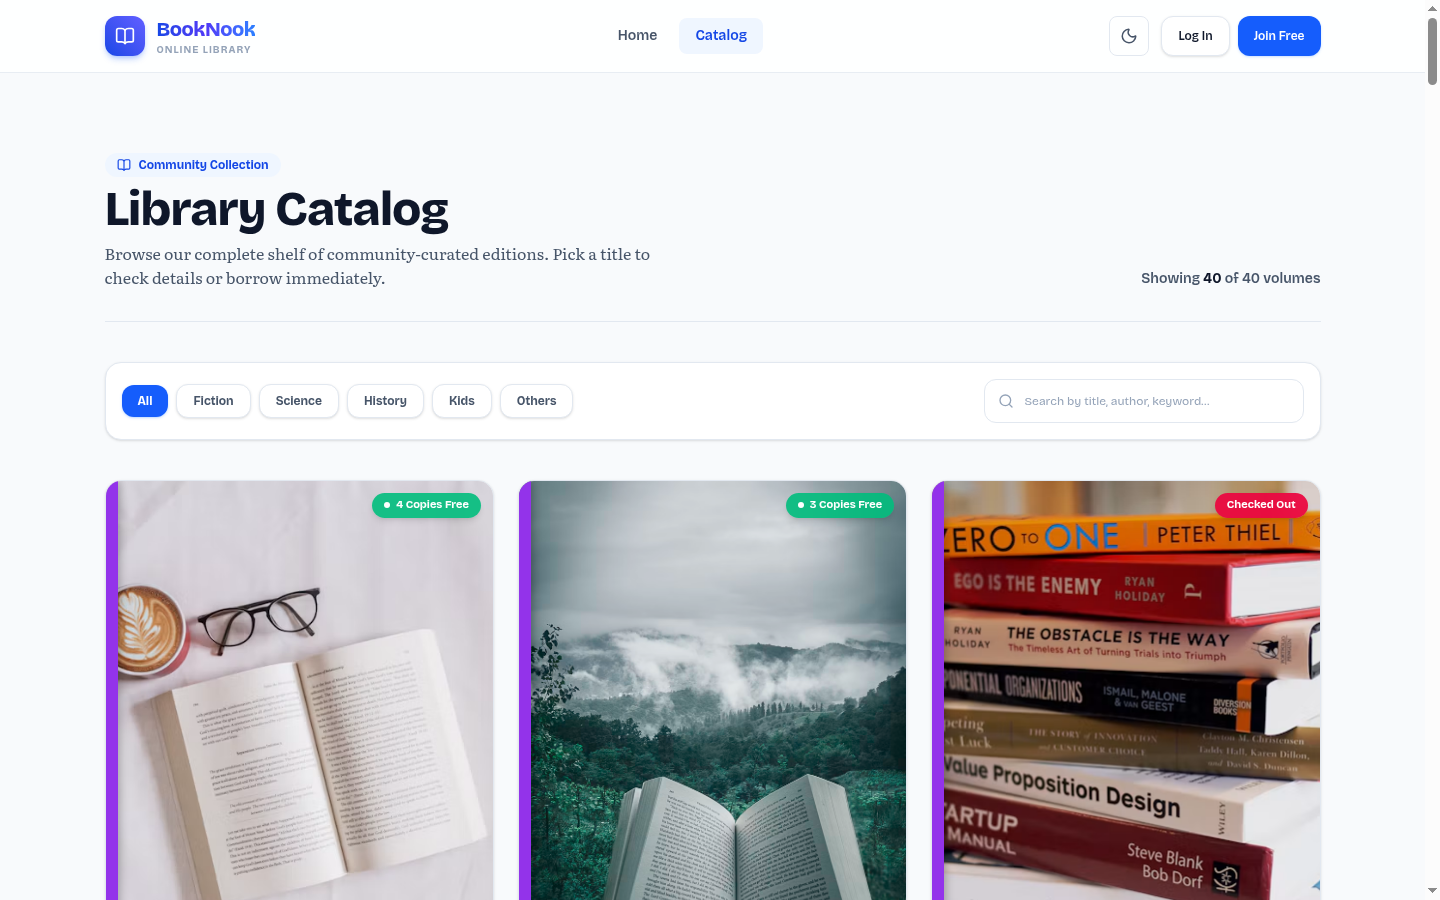
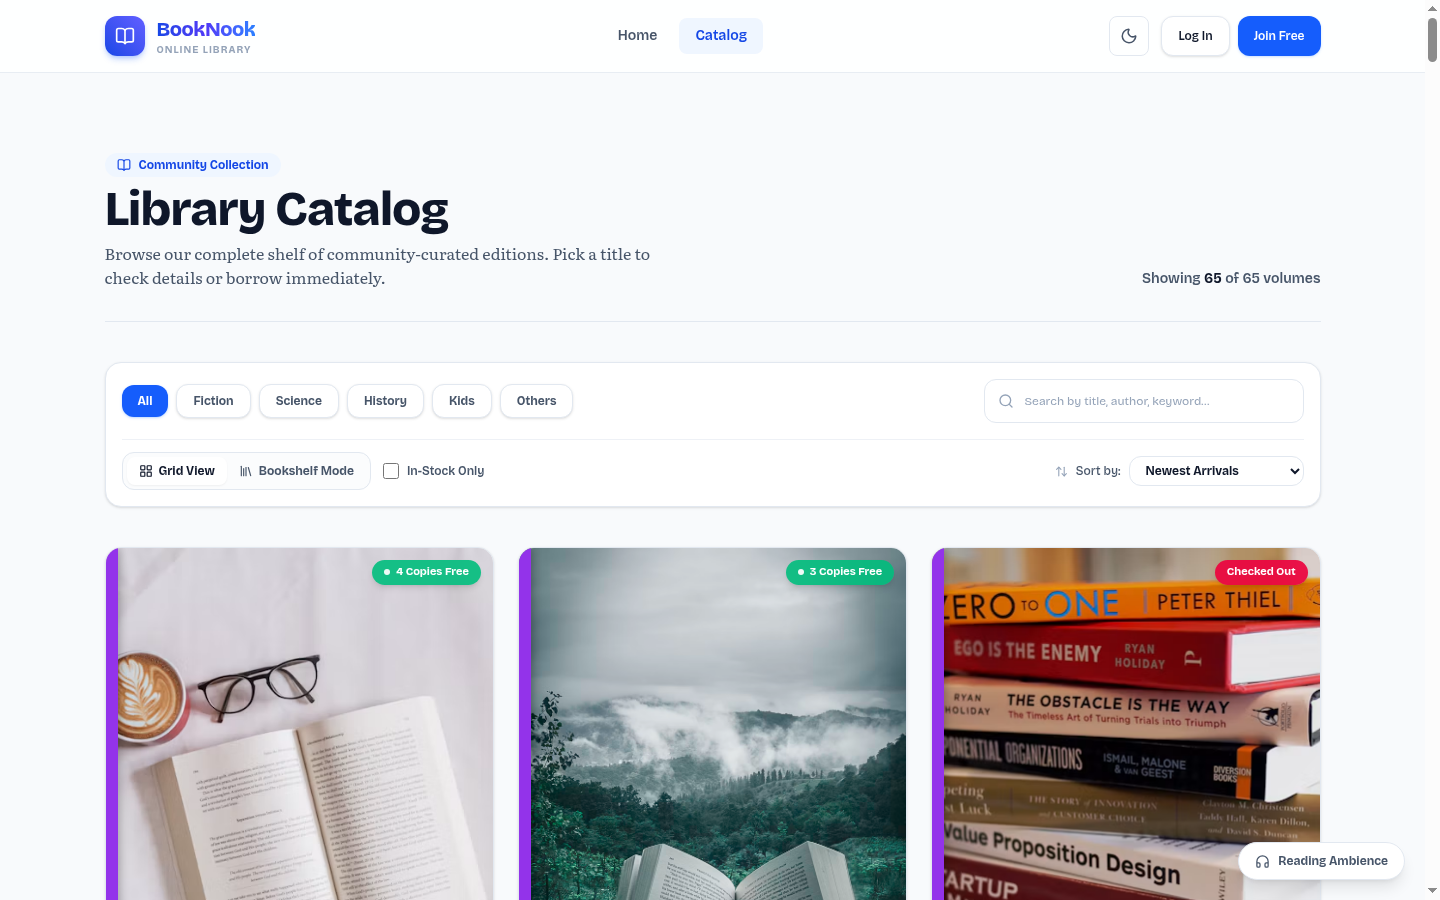
docs: showcase 65-volume library, 3D bookshelf, and reading matchmaker in README

diff --git a/README.md b/README.md
@@ -5,7 +5,7 @@
 [![Next.js](https://img.shields.io/badge/Next.js-16%20(App%20Router)-black?style=for-the-badge&logo=next.js)](https://nextjs.org/)
 [![BetterAuth](https://img.shields.io/badge/Auth-BetterAuth%20%2B%20Google-purple?style=for-the-badge)](https://www.better-auth.com/)
 
-A modern, full-stack community library application where book enthusiasts can discover literary works, borrow physical copies with real-time inventory management, share their personal collections, and track active loans.
+A modern, full-stack community library application where book enthusiasts can discover literary masterworks, borrow physical copies with real-time atomic inventory management, share personal collections, and track reading milestones.
 
 Built with **Next.js (App Router)**, **TypeScript**, **Tailwind CSS v4**, **BetterAuth with JWT & JWKS**, and an **Express.js + MongoDB Atlas** backend service.
 
@@ -19,32 +19,36 @@ Built with **Next.js (App Router)**, **TypeScript**, **Tailwind CSS v4**, **Bett
 
 ## 📸 Website Previews & Screenshots
 
-### 1. Editorial Magazine Home & Swiper Hero
-> Interactive book showcase with dynamic gradients, real-time platform statistics, and smooth transitions.
+### 1. Editorial Magazine Home & Literary Matchmaker
+> Interactive book showcase with dynamic gradients, real-time community statistics, and the new **Literary Matchmaker** vibe recommender.
 ![BookNook Home Page](public/screenshots/home.png)
 
 <br />
 
-### 2. Comprehensive 40-Volume Catalog with Category Filtering
-> Browse 40 curated titles across Fiction, Science, History, Kids, and Others with dynamic search and stock indicators.
+### 2. Comprehensive 65-Volume Catalog with Bookshelf & Grid View
+> Browse 65 curated titles across Fiction, Science, History, Kids, and Others with dynamic search, sort criteria, in-stock filtering, and the toggleable **Wooden Bookshelf View**.
 ![Catalog and Filters](public/screenshots/catalog.png)
 
 <br />
 
 ### 3. Book Details & Hardcover Presentation
-> 3D book spine perspective, verified metadata, and atomic borrow modal with live stock validation.
+> 3D book spine perspective, verified metadata, read-time calculator, share sheet, and atomic borrow modal with live stock validation.
 ![Book Details View](public/screenshots/book-details.png)
 
 <br />
 
 ### 4. Split-Screen Authentication & Google OAuth
-> Secure Google Sign-In and credentials registration with live password rule verification.
+> Secure Google Sign-In and credentials registration with live password rule verification and seamless session retention.
 ![Authentication Screen](public/screenshots/login.png)
 
 ---
 
-## ✨ Key Features (60/60 Rubric Implementation)
+## ✨ Key Features & Creative Innovations (60/60 Rubric)
 
+- 🪵 **Interactive 3D Wooden Bookshelf Mode**: Seamlessly toggle between modern responsive card grids and an authentic library bookshelf with oak shelves, upright cloth-bound book spines, gold foil bands, and interactive click-to-inspect drawers.
+- 🧭 **Literary Matchmaker (Vibe Recommender)**: Select your reading mood (*Cosmic Wonder*, *Dystopian Thrills*, *Epic History*, *Gentle Nostalgia*, *Stoic Wisdom*) to instantly receive curated book recommendations with personalized reading reasons and match scores.
+- 🎧 **Web Audio Ambient Reading Lounge**: Built-in, zero-latency ambient soundscapes synthesized directly in the browser via the Web Audio API—choose between *Library Rain on Window*, *Crackling Fireplace*, or *Warm Café Murmur* with custom volume controls.
+- 🪪 **Holographic Digital Sanctuary Pass**: View and export a digital membership pass on `/profile` complete with member barcode, unique membership ID (`BNK-XXXX-LIT`), member tier ("Master Bibliophile"), and 2026 reading challenge progress bars.
 - 📚 **Cloth-Bound Spine Design System**: A bespoke bookish design system where each category (*Fiction, Science, History, Kids, Others*) features its signature spine color applied to cards, category shelves, loaders, and footer strips with full Dark/Light theme switching.
 - 🔄 **Atomic Borrowing with Duplicate Prevention**: Atomic `findOneAndUpdate` inventory decrement operations with `{ availableCopies: { $gt: 0 } }` and `$inc: -1`. Compound unique indexing on `{ bookId, userEmail }` strictly blocks duplicate borrows with HTTP 409 Conflict.
 - 🛡 **BetterAuth with Remote JWKS Token Verification**: Full authentication featuring credentials login, real-time password criteria validation (uppercase, lowercase, minimum 6 characters), Google OAuth 2.0 integration, and cryptographically verified JWT authorization via `jose` remote JWKS (`/api/auth/jwks`).
@@ -56,15 +60,15 @@ Built with **Next.js (App Router)**, **TypeScript**, **Tailwind CSS v4**, **Bett
 
 ## 🗄 Database Catalog Overview
 
-The library database is populated with **40 volumes** across all 5 official categories:
+The library database is populated with **65 masterwork volumes** across all 5 official categories:
 
 | Category | Count | Notable Volumes Included |
 |---|---|---|
-| **Fiction** | 8 | *1984*, *To Kill a Mockingbird*, *The Great Gatsby*, *Brave New World*, *Pride and Prejudice* |
-| **Science** | 8 | *Cosmos*, *A Brief History of Time*, *The Gene*, *The Selfish Gene*, *Thinking in Systems* |
-| **History** | 7 | *Sapiens*, *Guns, Germs, and Steel*, *The Silk Roads*, *SPQR*, *The Diary of a Young Girl* |
-| **Kids** | 8 | *The Little Prince*, *The Hobbit*, *Charlotte's Web*, *Harry Potter*, *Matilda*, *Winnie-the-Pooh* |
-| **Others** | 9 | *Atomic Habits*, *Thinking, Fast and Slow*, *The Psychology of Money*, *Meditations*, *Deep Work* |
+| **Fiction** | 13 | *1984*, *To Kill a Mockingbird*, *The Great Gatsby*, *Brave New World*, *Pride and Prejudice*, *The Picture of Dorian Gray*, *Fahrenheit 451*, *Frankenstein*, *Jane Eyre*, *The Alchemist* |
+| **Science** | 13 | *Cosmos*, *A Brief History of Time*, *The Gene*, *The Selfish Gene*, *Thinking in Systems*, *The Elegant Universe*, *The Structure of Scientific Revolutions*, *Gödel, Escher, Bach*, *The Origin of Species* |
+| **History** | 13 | *Sapiens*, *Guns, Germs, and Steel*, *The Silk Roads*, *SPQR*, *The Diary of a Young Girl*, *The Lessons of History*, *Team of Rivals*, *A Short History of Nearly Everything*, *The History of the Ancient World* |
+| **Kids** | 13 | *The Little Prince*, *The Hobbit*, *Charlotte's Web*, *Harry Potter*, *Matilda*, *Winnie-the-Pooh*, *The Secret Garden*, *Bridge to Terabithia*, *The Phantom Tollbooth*, *A Wrinkle in Time* |
+| **Others** | 13 | *Atomic Habits*, *Thinking, Fast and Slow*, *The Psychology of Money*, *Meditations*, *Deep Work*, *The Obstacle Is the Way*, *Flow*, *Zero to One*, *Essentialism*, *Steal Like an Artist* |
 
 ---
 
@@ -73,7 +77,7 @@ The library database is populated with **40 volumes** across all 5 official cate
 ```
 ┌────────────────────────────────────────────────────────┐
 │                   Next.js 16 Client                    │
-│      App Router · Tailwind CSS v4 · Framer Motion      │
+│   App Router · Web Audio API · 3D Bookshelf View       │
 └──────────────────────────┬─────────────────────────────┘
                            │
              BetterAuth    │ Bearer JWT Token
@@ -87,23 +91,9 @@ The library database is populated with **40 volumes** across all 5 official cate
                            ▼
 ┌────────────────────────────────────────────────────────┐
 │                  MongoDB Atlas Cluster                 │
-│      Collections: books · borrows · users · sessions   │
+│      Collections: books (65) · borrows · users         │
 └────────────────────────────────────────────────────────┘
 ```
-
-### Client Technologies
-* **Framework**: Next.js 16 (App Router with Turbopack)
-* **Language**: TypeScript 5
-* **Styling**: Tailwind CSS v4 design tokens (`@theme inline`)
-* **Authentication**: BetterAuth with MongoDB adapter & Google OAuth
-* **Icons & UI**: Lucide React, React Icons, Sonner toasts
-* **Animations & Sliders**: Swiper.js & Framer Motion
-
-### Server Technologies
-* **Runtime**: Node.js & Express.js
-* **Database**: MongoDB Atlas
-* **Security & Auth**: `jose` (JSON Web Key Set verification)
-* **Deployment**: Vercel Serverless Function
 
 ---
 
@@ -155,8 +145,3 @@ CLIENT_URL=https://booknook-client-tau.vercel.app
    npm run dev
    ```
    Open [http://localhost:3000](http://localhost:3000) in your browser.
-
----
-
-## 📝 License
-This project is developed for educational and portfolio demonstration purposes.
